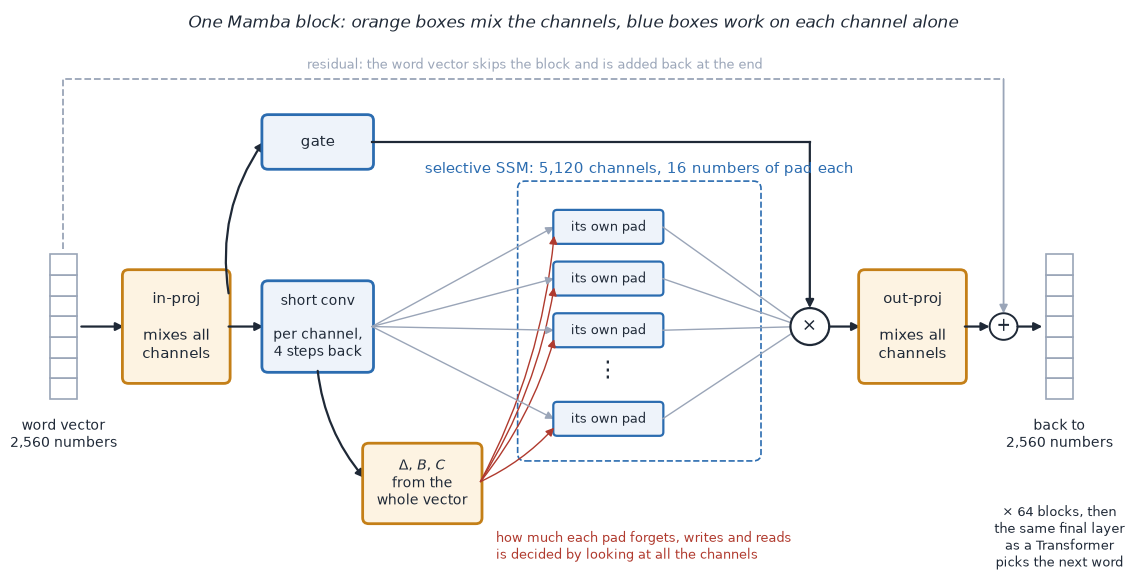
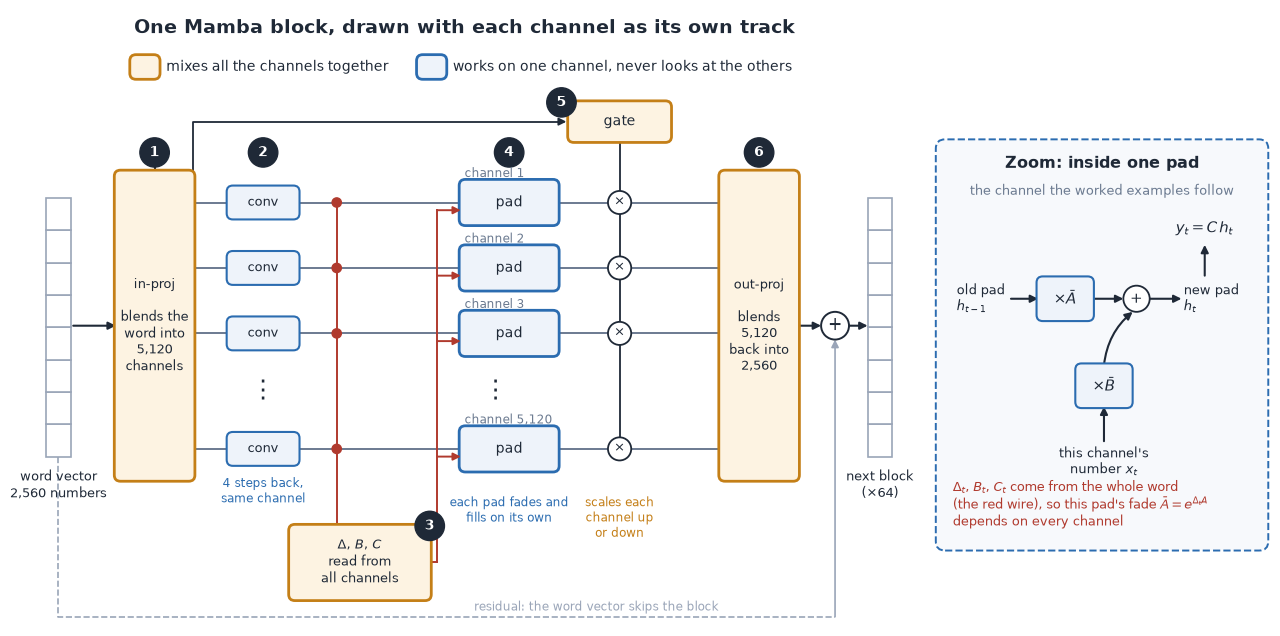
Mamba part 1: redraw the Mamba block figure with channel tracks and a one-pad zoom
Claude-Session: https://claude.ai/code/session_01SRVXSgqNZz6yigrWvLgN1o

Changed region(s): [[0.0, 0.031, 1.0, 0.9914], [0.9259, 0.3408, 0.9568, 0.3718], [0.8642, 0.1239, 0.8951, 0.1549]]

diff --git a/_posts/2026-09-23-mamba-is-attention-all-you-really-need.md b/_posts/2026-09-23-mamba-is-attention-all-you-really-need.md
@@ -66,7 +66,7 @@ The toy version also takes one number in and gives one number out. A real model 
 
 So the worked examples below follow one channel, with a one-number pad. How do the channels talk to each other, then? They never do inside the pad. Each pad fades and fills on its own. The talking happens around it. A projection going in and one coming out each mix all the channels together. And $\Delta$, $B$ and $C$ are computed from the whole vector, so what one pad forgets depends on everything the word carries.
 
-![Mamba block diagram: a word vector goes through a mixing projection, a per-channel convolution, thousands of separate pads steered by red arrows from one delta-B-C box, a gate, and a mixing projection back out](/images/blog36/mamba_block.png) *Figure 2: One Mamba block. The orange boxes mix the channels and the blue ones never do, so the pads stay separate while everything around them talks. Source: Author*
+![Mamba block drawn as parallel channel tracks: wide orange boxes span every track, small blue conv and pad boxes sit on one track each, and a red wire from one box feeds every pad. A side panel zooms into a single pad](/images/blog36/mamba_block.png) *Figure 2: One Mamba block, with each channel drawn as its own track. Orange boxes span every track, so they mix the channels. Blue boxes sit on a single track and never see the others. The red wire is how the channels still talk: one box reads them all and sets every pad's $\Delta$, $B$ and $C$. The panel on the right is one pad up close, which is all the worked examples in this post ever compute. Source: Author*
 
 So how far back can the pad reach? There is no window and no cut-off. Every word the model has ever heard is still on the pad, just faded. What sets the reach in practice is how fast it fades. If each step keeps 99% of the pad, a word from 100 steps ago is down to about a third. A word from 1,000 steps ago is basically gone. Learn a slower fade and the reach gets longer, at no extra cost.
 
